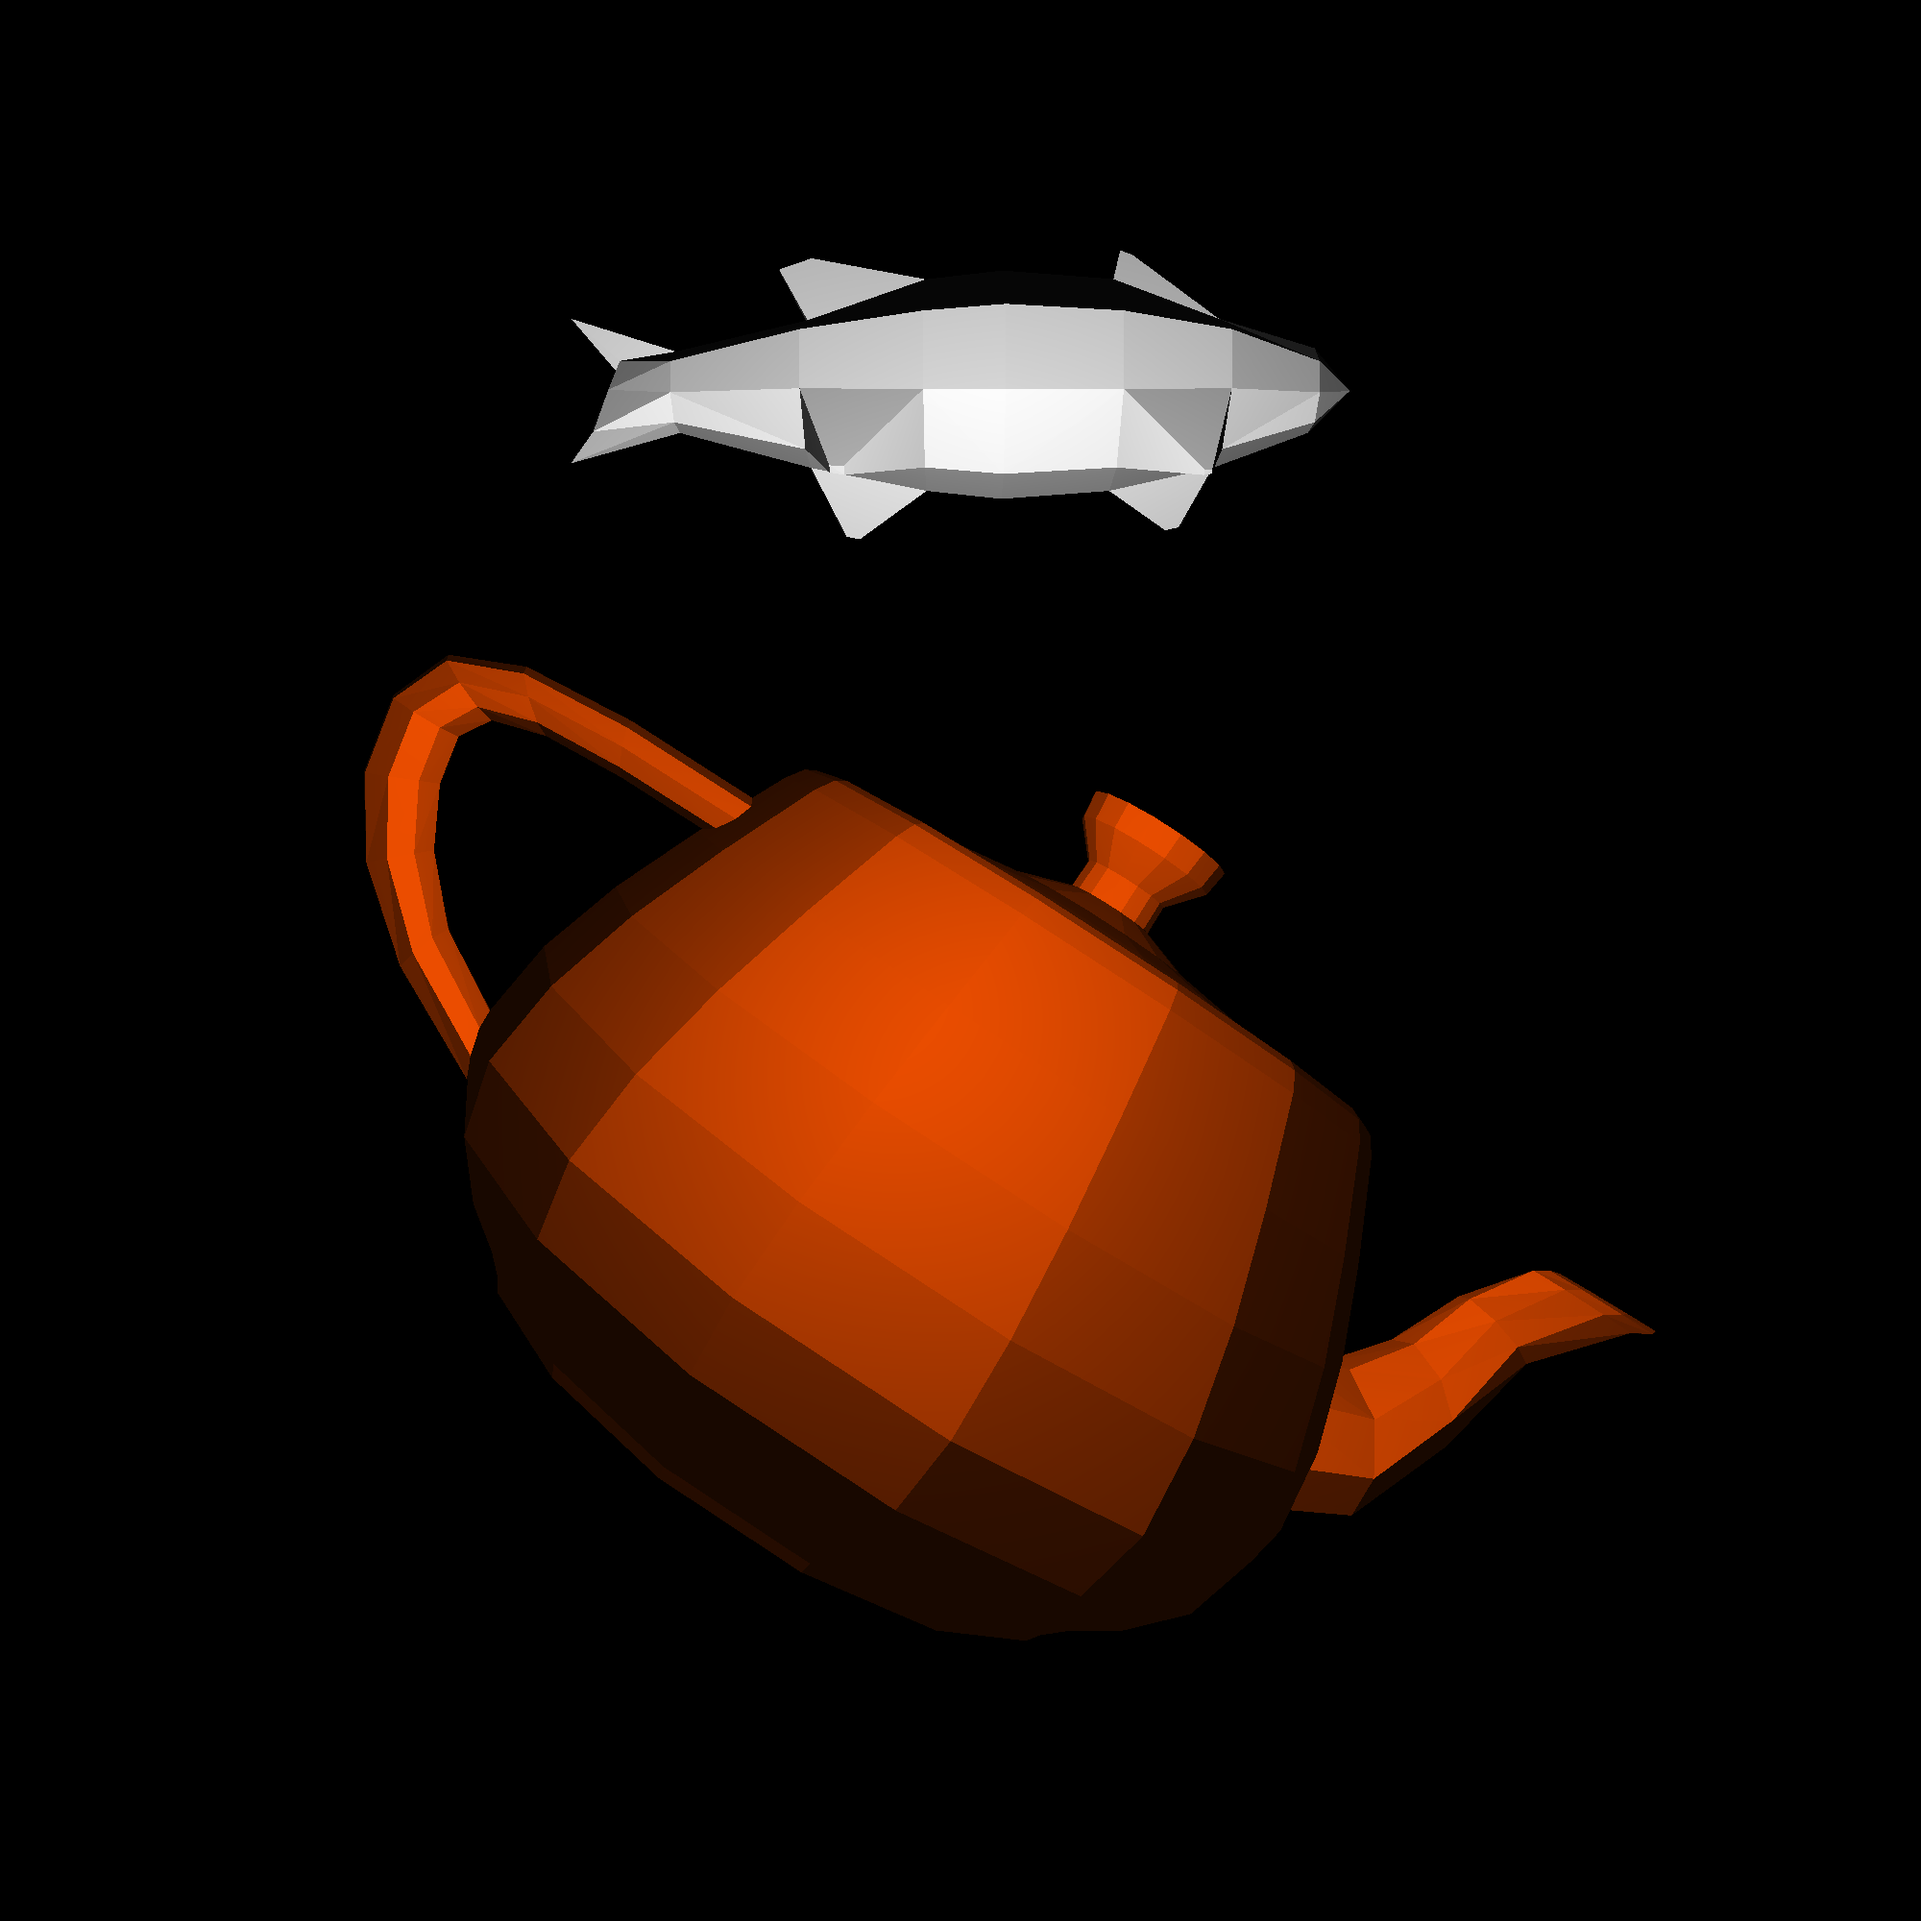
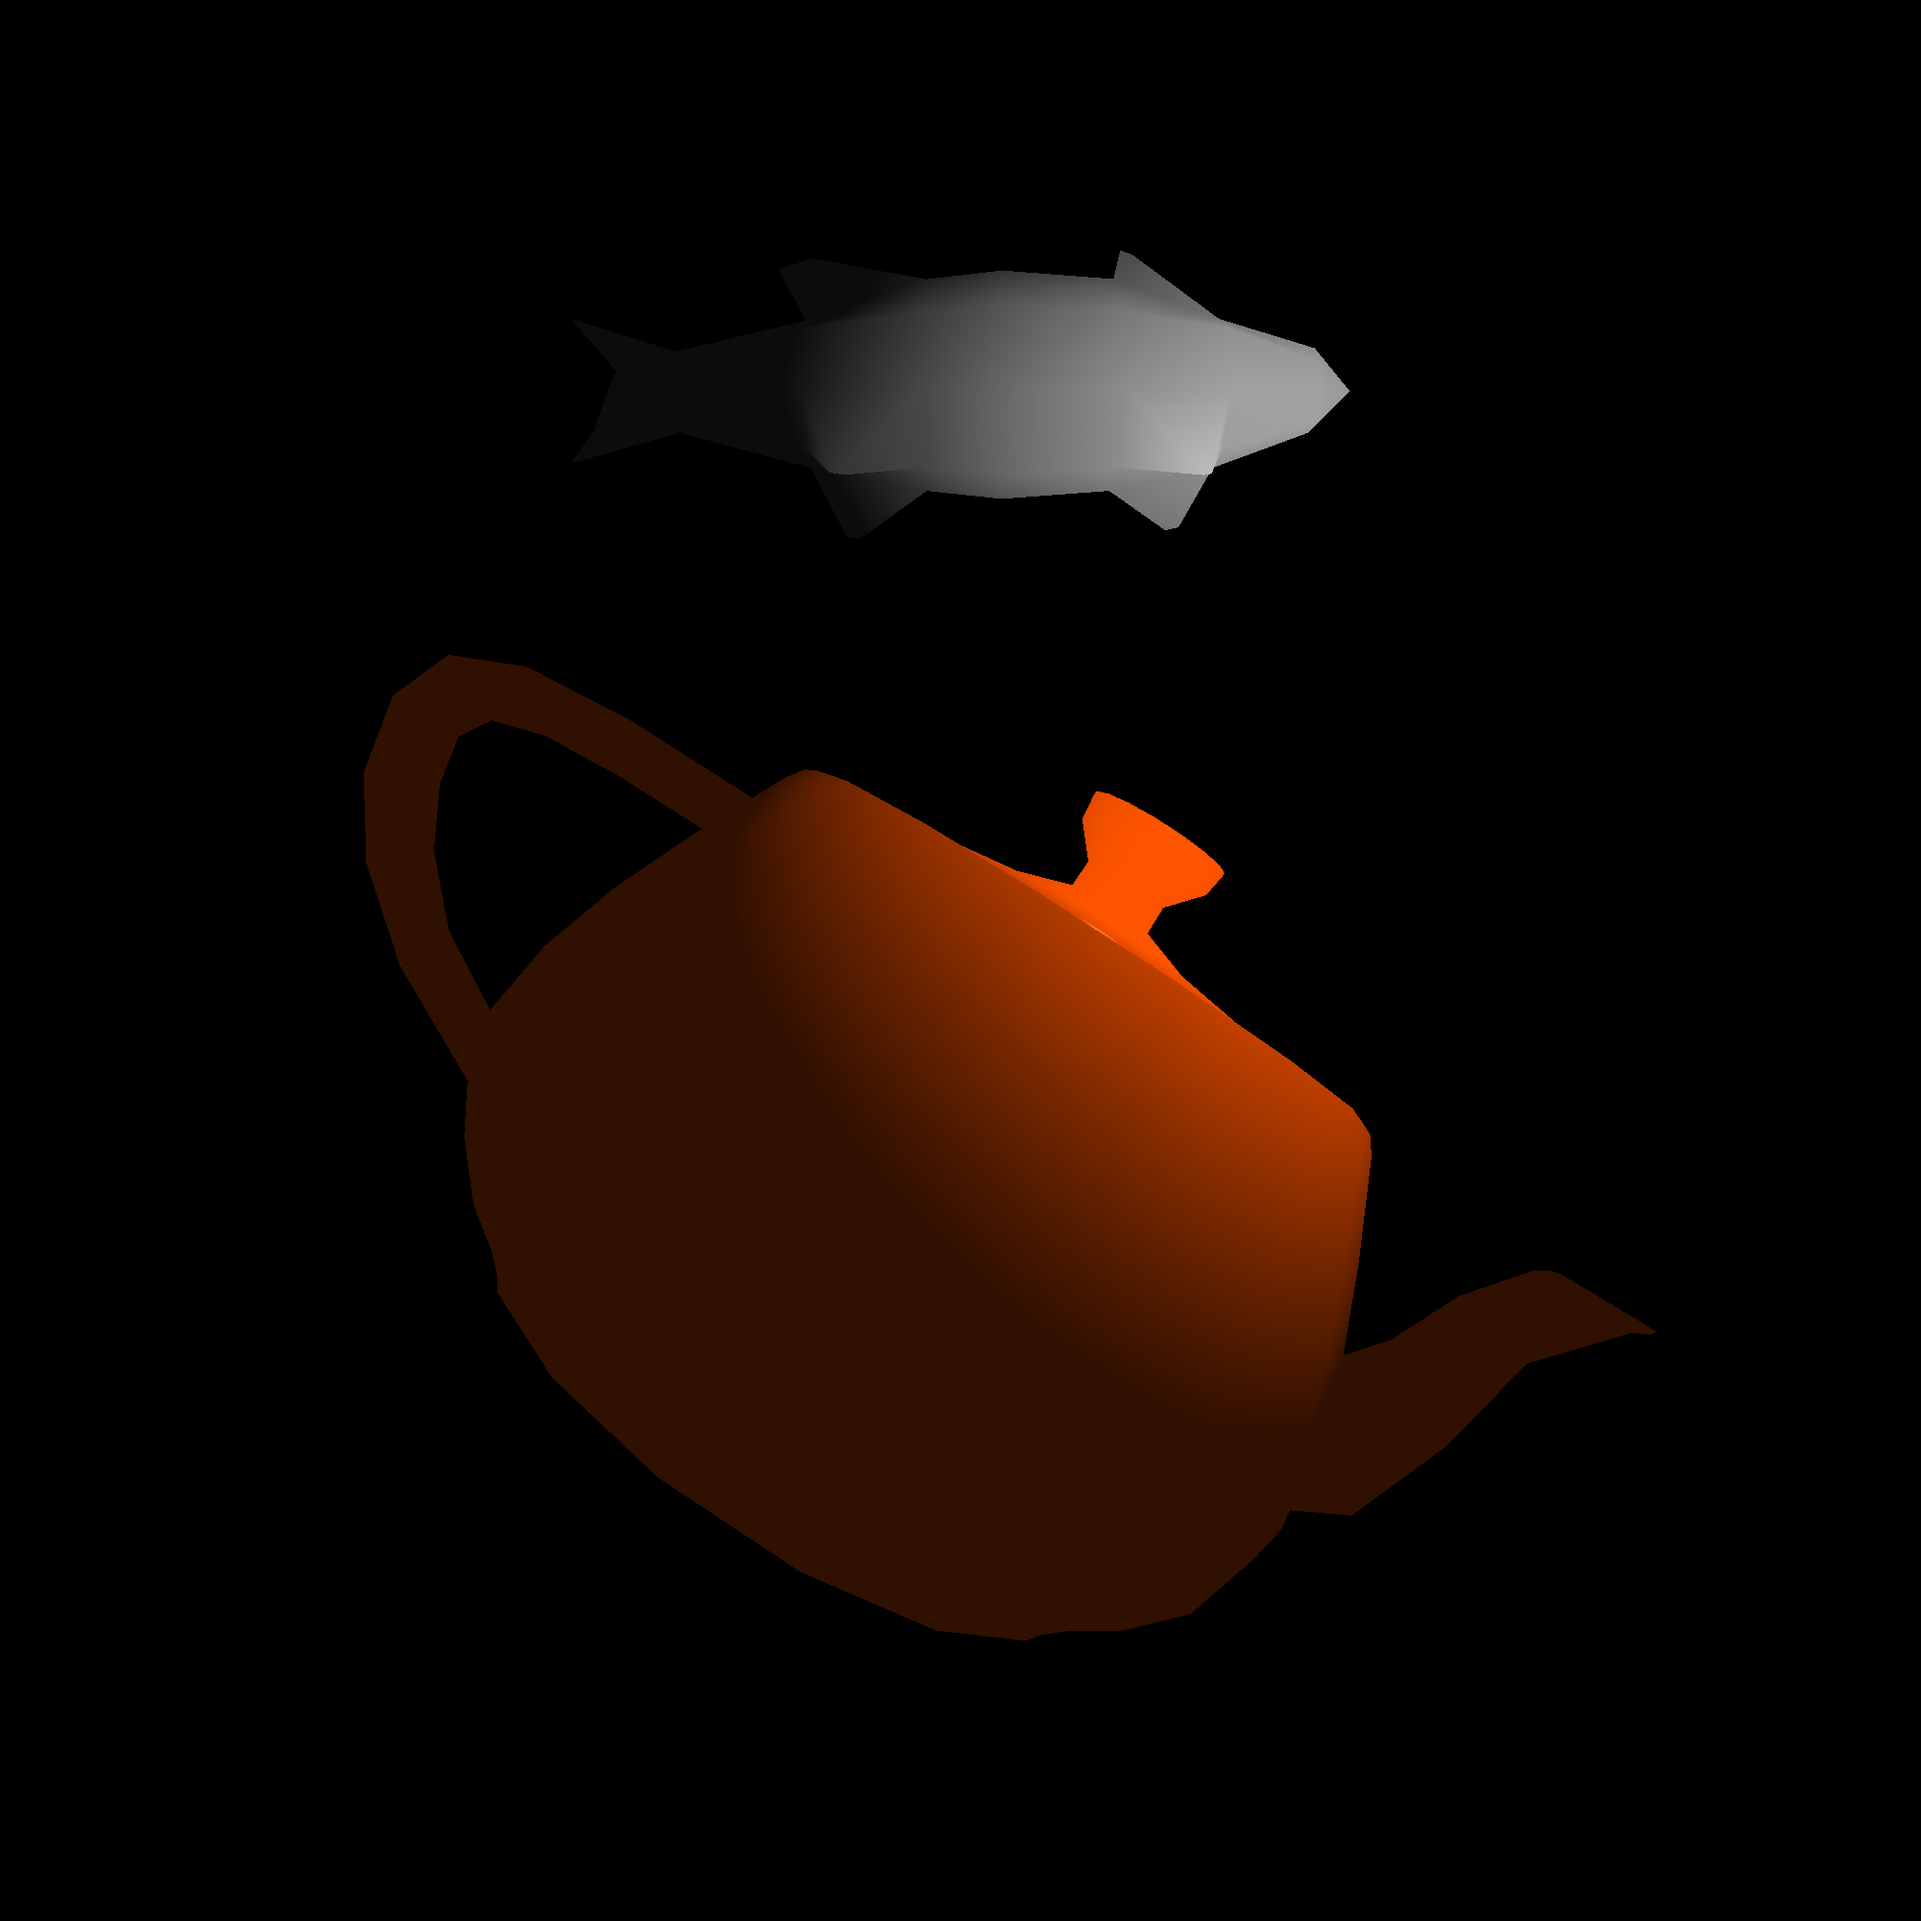
fix [SCRUM-101-fix]: Fix-up for Phong-Shading (#22)

Changed region(s): [[0.186, 0.341, 0.868, 0.806], [0.31, 0.124, 0.713, 0.279]]

diff --git a/raytracer/src/main/java/rayrangers/raytracer/algorithm/Shader.java b/raytracer/src/main/java/rayrangers/raytracer/algorithm/Shader.java
@@ -1,4 +1,5 @@
 package rayrangers.raytracer.algorithm;
+
 import java.awt.Color;
 import java.util.Map;
 import java.util.UUID;
@@ -14,14 +15,19 @@ import rayrangers.raytracer.math.Vertex3D;
 public class Shader {
 
     /**
-     * Ambient color of the scene.
+     * Ambient color used if scene background color is completely black.
      */
-    private static final Color AMBIENT_COLOR = new Color(15,15,15);
+    private static final Color AMBIENT_COLOR = new Color(30, 30, 30);
 
     /**
      * Hash map of all light sources of the scene.
      */
     private Map<UUID, LightSource> lightSources;
+
+    /**
+     * Background color of the scene.
+     */
+    private Color backgroundColor;
 
     /**
      * Class constructor specifying the scene to be rendered.
@@ -30,9 +36,13 @@ public class Shader {
      */
     public Shader(Scene scene) {
         lightSources = scene.getLightSources();
+        if (scene.getBackgroundColor().equals(Color.BLACK)) {
+            backgroundColor = AMBIENT_COLOR;
+        } else {
+            backgroundColor = scene.getBackgroundColor();
+        }
     }
 
-    
     /**
      * Calculates the color of the associated pixel.
      * 
@@ -43,106 +53,126 @@ public class Shader {
 
         // get material, normal vector, view ray direction and hit point from hit record
         Material material = record.getMaterial();
-        Vector3D normalVector = record.getNormalVector();
-        Vector3D viewRayDirection = record.getViewRayDirection();
         Vertex3D hitPoint = record.getHitPoint();
+
+        // get all Vertices from the current hit record
+        Vertex3D[] vertices = record.getAllVert();
+        Vector3D normal0 = vertices[0].getlocationVector().normalize();
+        Vector3D normal1 = vertices[1].getlocationVector().normalize();
+        Vector3D normal2 = vertices[2].getlocationVector().normalize();
+
+        double[] barycentric = calculateBarycentric(hitPoint, vertices[0], vertices[1], vertices[2]);
+        Vector3D interpolatedNormal = normal0.mult(barycentric[0]).add(normal1.mult(barycentric[1]))
+                .add(normal2.mult(barycentric[2])).normalize();
 
         // get ambient coefficients from material
         Color ambientCoefficients = material.getAmbient();
-
         // calculate ambient color
-        Color ambientColor = new Color((int) (AMBIENT_COLOR.getRed() * (ambientCoefficients.getRed() / 255.0)),
-        (int) (AMBIENT_COLOR.getGreen() * (ambientCoefficients.getGreen() / 255.0)),
-        (int) (AMBIENT_COLOR.getBlue() * (ambientCoefficients.getBlue() / 255.0)));
+        Color ambientColor = new Color((int) (backgroundColor.getRed() * (ambientCoefficients.getRed() / 255.0)),
+                (int) (backgroundColor.getGreen() * (ambientCoefficients.getGreen() / 255.0)),
+                (int) (backgroundColor.getBlue() * (ambientCoefficients.getBlue() / 255.0)));
 
-        Color finalColor = new Color(0,0,0); 
-
-
-        //Start with ambient color if illum == 1  
+        Color finalColor = new Color(0, 0, 0);
         Color color = new Color(ambientColor.getRed(), ambientColor.getGreen(), ambientColor.getBlue());
-         
+
         // iterate over all light sources
         for (LightSource lightSource : lightSources.values()) {
 
-            //get light source position, color and intensity
+            // get light source position, color and intensity
             Color lightColor = lightSource.getColor();
 
-
             // calculate light vector
-            Vector3D lightVector = lightSource.getPosition().getlocationVector().sub(hitPoint.getlocationVector()).normalize();
+            Vector3D lightVector = lightSource.getPosition().getlocationVector().sub(hitPoint.getlocationVector())
+                    .normalize();
 
-
-            // get diffuse/specular coefficients from material
+            // get coefficients from material
             Color diffuseColor = material.getDiffuse();
             Color specularColor = material.getSpecular();
             double specularExponent = material.getSpecularExp();
-            int illuminationModel = material.getIllum();
             double dissolve = material.getTransparency();
 
-
-            if(illuminationModel >= 2){
-            //calculate diffuse color
-                double diffuseIntensity = Math.max(0, normalVector.scalar(lightVector));
-                Color diffuse = new Color((int) (lightColor.getRed() * (diffuseColor.getRed() / 255.0) * diffuseIntensity),
+            // calculate diffuse color
+            double diffuseIntensity = Math.max(0, interpolatedNormal.scalar(lightVector));
+            Color diffuse = new Color((int) (lightColor.getRed() * (diffuseColor.getRed() / 255.0) * diffuseIntensity),
                     (int) (lightColor.getGreen() * (diffuseColor.getGreen() / 255.0) * diffuseIntensity),
                     (int) (lightColor.getBlue() * (diffuseColor.getBlue() / 255.0) * diffuseIntensity));
-                color = new Color(
+            color = new Color(
                     Math.min(255, color.getRed() + diffuse.getRed()),
                     Math.min(255, color.getGreen() + diffuse.getGreen()),
-                    Math.min(255, color.getBlue() + diffuse.getBlue())
-            );
-            }
+                    Math.min(255, color.getBlue() + diffuse.getBlue()));
 
-
-
-            if(illuminationModel >= 3){
-            //calculate specular color
-                Vector3D reflectionVector = normalVector.mult(2 * lightVector.scalar(normalVector)).sub(lightVector).normalize();
-                double specularIntensity = Math.pow(Math.max(0, reflectionVector.scalar(reflectionVector)), specularExponent);
-                Color specular = new Color((int) (lightColor.getRed() * (specularColor.getRed() / 255.0) * specularIntensity),
+            // calculate specular color
+            Vector3D reflectionVector = interpolatedNormal.mult(2 * lightVector.scalar(interpolatedNormal))
+                    .sub(lightVector).normalize();
+            Vector3D viewVector = record.getViewRayDirection().mult(-1).normalize();
+            double specularIntensity = specularExponent > 0
+                    ? Math.pow(Math.max(0, reflectionVector.scalar(viewVector)), specularExponent)
+                    : 0.0;
+            Color specular = new Color(
+                    (int) (lightColor.getRed() * (specularColor.getRed() / 255.0) * specularIntensity),
                     (int) (lightColor.getGreen() * (specularColor.getGreen() / 255.0) * specularIntensity),
                     (int) (lightColor.getBlue() * (specularColor.getBlue() / 255.0) * specularIntensity));
 
-                color = new Color(
+            color = new Color(
                     Math.min(255, color.getRed() + specular.getRed()),
                     Math.min(255, color.getGreen() + specular.getGreen()),
-                    Math.min(255, color.getBlue() + specular.getBlue())
-                    );       
-            }
+                    Math.min(255, color.getBlue() + specular.getBlue()));
 
-
-
-
-           /*  finalColor = new Color(
-                Math.min(255, ambientColor.getRed() + diffuse.getRed() + specular.getRed()),
-                Math.min(255, ambientColor.getGreen() + diffuse.getGreen() + specular.getGreen()),
-                Math.min(255, ambientColor.getBlue() + diffuse.getBlue() + specular.getBlue())
-            ); */
-            
-            
-
-            if(dissolve < 1){
-                Color backgroundColor = new Color(0,0,0);
+            // Dissolve - if entity is see-through
+            if (dissolve < 1) {
                 color = mixColors(color, backgroundColor, dissolve);
             }
 
             finalColor = new Color(
-                Math.min(255, ambientColor.getRed() + color.getRed()),
-                Math.min(255, ambientColor.getGreen() + color.getGreen()),
-                Math.min(255, ambientColor.getBlue() + color.getBlue())
-            );
+                    Math.min(255, ambientColor.getRed() + color.getRed()),
+                    Math.min(255, ambientColor.getGreen() + color.getGreen()),
+                    Math.min(255, ambientColor.getBlue() + color.getBlue()));
         }
-        
-            
-        //return ambientColor;
+
         return finalColor;
     }
 
-
-    private Color mixColors(Color color1, Color color2, double dissolve){
+    /**
+     * Mixes two colors based on a dissolve factor.
+     * 
+     * @param color1   first color
+     * @param color2   second color
+     * @param dissolve dissolve factor
+     * @return mixed color
+     */
+    private Color mixColors(Color color1, Color color2, double dissolve) {
         int red = (int) (color1.getRed() * dissolve + color2.getRed() * (1 - dissolve));
         int green = (int) (color1.getGreen() * dissolve + color2.getGreen() * (1 - dissolve));
         int blue = (int) (color1.getBlue() * dissolve + color2.getBlue() * (1 - dissolve));
         return new Color(red, green, blue);
     }
+
+    /**
+     * Calculates the barycentric coordinates of a point in a triangle.
+     * 
+     * @param p  point
+     * @param v0 vertex 0
+     * @param v1 vertex 1
+     * @param v2 vertex 2
+     * @return barycentric coordinates
+     */
+    private double[] calculateBarycentric(Vertex3D p, Vertex3D v0, Vertex3D v1, Vertex3D v2) {
+        Vector3D v0v1 = v1.getlocationVector().sub(v0.getlocationVector());
+        Vector3D v0v2 = v2.getlocationVector().sub(v0.getlocationVector());
+        Vector3D v0p = p.getlocationVector().sub(v0.getlocationVector());
+
+        double d00 = v0v1.scalar(v0v1);
+        double d01 = v0v1.scalar(v0v2);
+        double d11 = v0v2.scalar(v0v2);
+        double d20 = v0p.scalar(v0v1);
+        double d21 = v0p.scalar(v0v2);
+
+        double denom = d00 * d11 - d01 * d01;
+        double v = (d11 * d20 - d01 * d21) / denom;
+        double w = (d00 * d21 - d01 * d20) / denom;
+        double u = 1.0 - v - w;
+
+        return new double[] { u, v, w };
+    }
+
 }

diff --git a/raytracer/src/main/java/rayrangers/raytracer/algorithm/HitRecord.java b/raytracer/src/main/java/rayrangers/raytracer/algorithm/HitRecord.java
@@ -41,6 +41,11 @@ public class HitRecord {
     private Vector3D viewRayDirection;
 
     /**
+     * All vertices of the hittable object.
+     */
+    private Vertex3D[] verticesAll;
+
+    /**
      * Returns the point where the hit occurred.
      * 
      * @return
@@ -56,6 +61,24 @@ public class HitRecord {
      */
     public void setHitPoint(Vertex3D hitPoint) {
         this.hitPoint = hitPoint;
+    }
+
+      /**
+     * Returns all vertices of the hittable object.
+     * 
+     * @return Array of vertices
+     */
+    public Vertex3D[] getAllVert() {
+        return verticesAll;
+    }
+
+    /**
+     * Sets all vertices of the hittable object.
+     * 
+     * @param verticesAll Array of vertices
+     */
+    public void setAllVert(Vertex3D[] verticesAll) {
+        this.verticesAll = verticesAll;
     }
 
     /**

diff --git a/raytracer/src/main/java/rayrangers/raytracer/world/Triangle.java b/raytracer/src/main/java/rayrangers/raytracer/world/Triangle.java
@@ -112,8 +112,11 @@ public class Triangle extends Face {
         Vector3D vecHA =  vertices[0].getlocationVector().sub(ray.pointAt(t).getlocationVector());
         Vector3D vecHB =  vertices[1].getlocationVector().sub(ray.pointAt(t).getlocationVector());
         Vector3D normalVec = vecHA.cross(vecHB).normalize();
+        Vector3D viewDirection = ray.getDirection();
+        record.setViewRayDirection(viewDirection);
+        Vertex3D[] verticesAll  = getAllVert();
+        record.setAllVert(verticesAll);
         record.setNormalVector(normalVec);
-
         return true;
     }
 }

diff --git a/raytracer/src/main/java/rayrangers/raytracer/Prototype.java b/raytracer/src/main/java/rayrangers/raytracer/Prototype.java
@@ -53,11 +53,10 @@ public class Prototype {
         // Entity triangleEnt = new Entity(null, faces, vlist);
         // scene.addEntity(triangleEnt);
 
-        //scene.addEntity(tuna);
         scene.addEntity(teapot);
         scene.addEntity(tuna);
 
-        LightSource lightSource1 = new LightSource(0.15, new Vertex3D(0, 50, 200), Color.WHITE);
+        LightSource lightSource1 = new LightSource(0.15, new Vertex3D(300, 250, 200), Color.WHITE);
         scene.addLightSource(lightSource1);
 
         Renderer renderer = new Renderer(scene, camera.getUuid());
